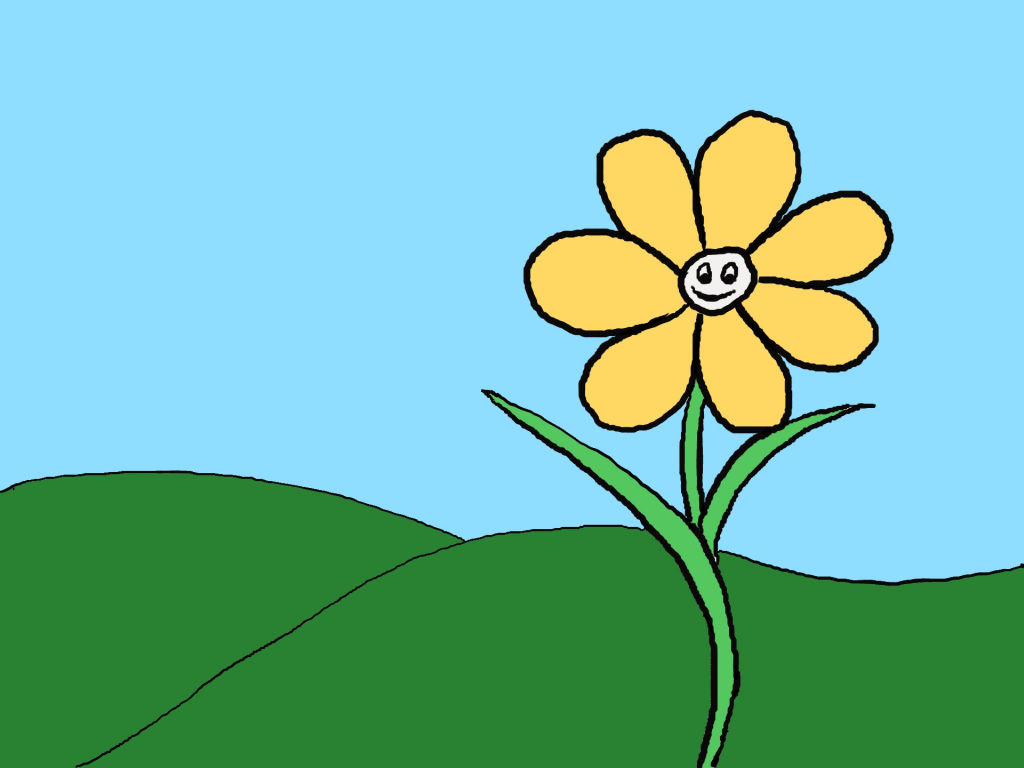
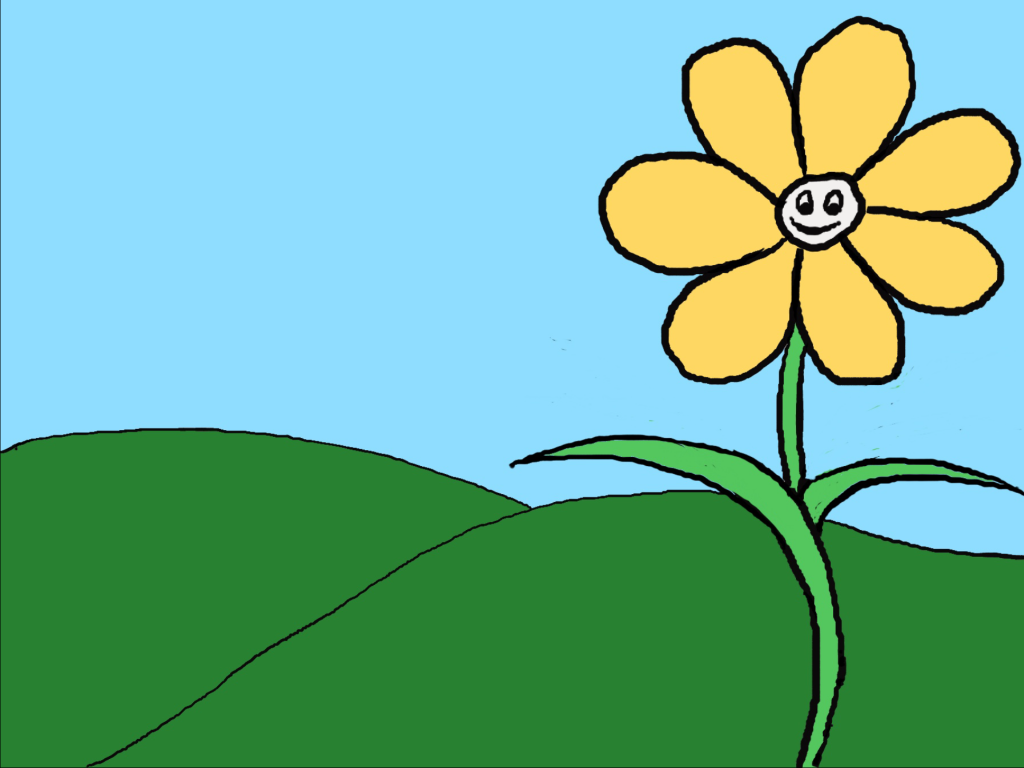
Graphics added

diff --git a/game2.html b/game2.html
@@ -117,6 +117,10 @@
 	    	blankSpaces += "_";
 	    } 
 
+	    
+	    //On landing at game play page, load the blank spaces and the no-face flower image
+
+	    document.body.style.backgroundImage = "url(assets/images/flower0.png)";
 	    document.querySelector("#FlowerName").innerHTML = blankSpaces;
 
 		// Creating wins and losses variable and a counter that saves values between page reloads
@@ -146,6 +150,8 @@
 	 //Function that reinitializes variables at game restart, except for win/loss counter
 
 	 function restart () {
+
+		document.body.style.backgroundImage = "url(assets/images/flower0.png)";
 
 		gameFlower = flower[Math.floor(Math.random() * flower.length)];
 	    console.log(gameFlower);
@@ -240,7 +246,7 @@
 
 			document.querySelector("#FlowerName").innerHTML = blankSpaces;
 
-			//If the guessed letter is not in the flower name, then it adds it to the list of incorrect guesses and increments the bad guess count by 1
+			//If the guessed letter is not in the flower name, then it adds it to the list of incorrect guesses, increments the bad guess count by 1, and replaces the flower image.
 
 				if (matches.length === 0) {
 					if (notLetterMatches.indexOf(letterGuess) === -1){
@@ -248,6 +254,8 @@
 					console.log(letterGuess);
 					badGuessCount++;
 					console.log(badGuessCount);
+					var imageUrl = "url(assets/images/flower" + badGuessCount + ".png)"
+						 document.body.style.backgroundImage = imageUrl;
 					}	
 				}
 
@@ -261,6 +269,9 @@
 					console.log(wins);
 					document.querySelector("#WinMessage").innerHTML = "Yay! You guessed the flower!<br>Wins: " + wins + "    " + "Losses: " + losses;
 					console.log("You won!");
+					document.body.style.backgroundImage = "url(assets/images/flower12.png)";
+					document.body.style.backgroundImage = "url(assets/images/flower11.png)";
+					document.body.style.backgroundImage = "url(assets/images/flower10.png)";
 					document.querySelector("#NotMatching").innerHTML = "<p><a href='#' class='btn btn-info btn-lg' role='button' onclick='restart()'>Play Again</a>&nbsp;&nbsp;<a href='#' class='btn btn-info btn-lg' role='button' onclick='resetCounter()'>Reset Counter</a></p>";
 					gameOver = 0;
 					
@@ -272,6 +283,8 @@
 					console.log(losses);
 					document.querySelector("#WinMessage").innerHTML = "Sorry, your guesses are up.<br>The flower was " + gameFlower + ".<br>Wins: " + wins + "    " + "Losses: " + losses;
 					console.log("You lost.");
+					document.body.style.backgroundImage = "url(assets/images/flower8.png)";
+					document.body.style.backgroundImage = "url(assets/images/flower9.png)";
 					document.querySelector("#NotMatching").innerHTML = "<p><a href='#' class='btn btn-info btn-lg' role='button' onclick='restart()'>Play Again</a>&nbsp;&nbsp;<a href='#' class='btn btn-info btn-lg' role='button' onclick='resetCounter()'>Reset Counter</a></p>";
 					gameOver = 0;
 				}

diff --git a/assets/css/style.css b/assets/css/style.css
@@ -1,14 +1,17 @@
 body  {
 
-	background-image: url(../images/Flower11.png);
+	background-image: url(../images/flower11.png);
 	background-size: cover;
+	background-color: #95cbf1;
+	background-repeat: none;
 	height: 100%;
 }
 
 body .jumbotron {
 
-	background-image: url(../images/Flower11.png);
+	background-image: url(../images/flower11.png);
 	background-size: cover;
+	background-color: #95cbf1;
 	height: 100%;
 }
 
@@ -24,7 +27,7 @@ body .jumbotron {
 	margin-top: 30px; 
 }
 
-.col-md-12 p {
+.col-md-12 {
 
 	box-sizing: border-box;
 

diff --git a/index.html b/index.html
@@ -18,7 +18,7 @@
 <!-- Linking CSS -->
 	<link rel="stylesheet" type="text/css" href="assets/css/style.css">
 
-	<link href="https://fonts.googleapis.com/css?family=Crafty+Girls|Sniglet" rel="stylesheet">
+	<link href="https://fonts.googleapis.com/css?family=Sniglet" rel="stylesheet">
 
 </head>
 
